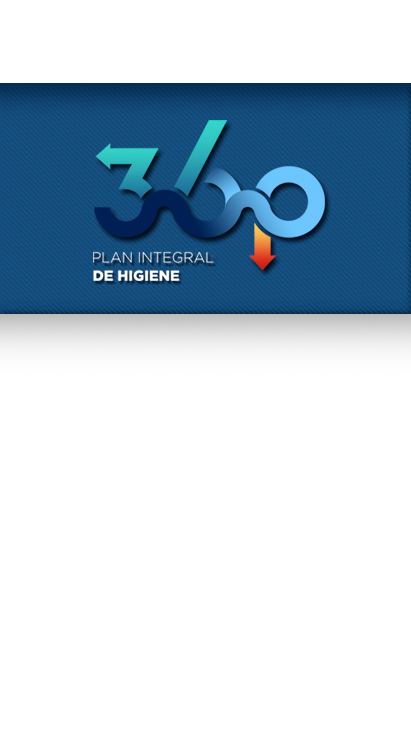
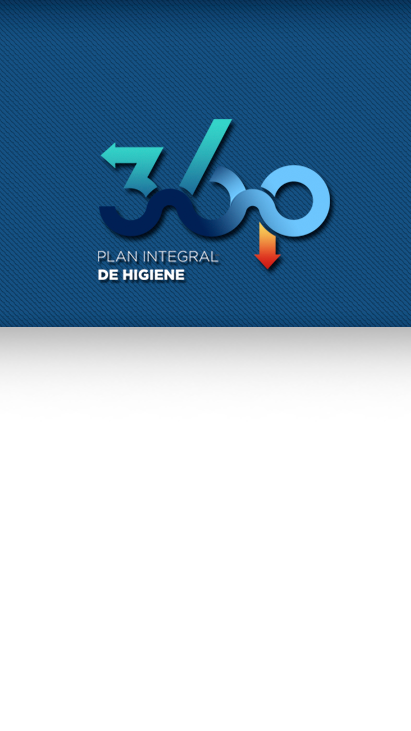
Diseño-Solucion Imagenes en distintos dispositivos

Changed region(s): [[0.0, 0.0, 1.0, 0.5116]]

diff --git a/src/app/app.scss b/src/app/app.scss
@@ -57,6 +57,33 @@ ion-footer{
     height:100%;            
     }
 
+/* 2 columnas para tablets */
+@media (min-width: 700px) {
+    #welcome  {
+        background-image: url('../../assets/images/fondoRegistrarseTablet.png');
+        background-repeat:no-repeat;
+        -webkit-background-size: cover;
+        -moz-background-size: cover;
+        -o-background-size: cover;
+        background-position: center center;
+        background-attachment: fixed;         
+    }
+}
+
+/* 4 columnas para grandes dispositivos*/
+@media (min-width: 960px) {
+    #welcome  {
+        background-image: url('../../assets/images/fondoRegistrarseMonitor.png');
+        background-repeat:no-repeat;
+        -webkit-background-size: cover;
+        -moz-background-size: cover;
+        -o-background-size: cover;
+        background-position: center center;
+        background-attachment: fixed;           
+    }
+}
+
+
 #welcome-bis {
     background-image: url('../../assets/images/fondoRegistrarse.png');
     background-repeat:no-repeat;
@@ -67,6 +94,32 @@ ion-footer{
     background-attachment: fixed;
     width:100%; 
     height:100%;
+}
+
+/* 2 columnas para tablets */
+@media (min-width: 700px) {
+    #welcome-bis  {
+        background-image: url('../../assets/images/fondoRegistrarseTablet.png');
+        background-repeat:no-repeat;
+        -webkit-background-size: cover;
+        -moz-background-size: cover;
+        -o-background-size: cover;
+        background-position: center center;
+        background-attachment: fixed;         
+    }
+}
+
+/* 4 columnas para grandes dispositivos*/
+@media (min-width: 960px) {
+    #welcome-bis  {
+        background-image: url('../../assets/images/fondoRegistrarseMonitor.png');
+        background-repeat:no-repeat;
+        -webkit-background-size: cover;
+        -moz-background-size: cover;
+        -o-background-size: cover;
+        background-position: center center;
+        background-attachment: fixed;           
+    }
 }
 
 #registrarText {

diff --git a/src/pages/plan-integral-higiene/plan-integral-higiene.scss b/src/pages/plan-integral-higiene/plan-integral-higiene.scss
@@ -2,7 +2,7 @@ page-plan-integral-higiene {
 
 
 	#fondo {			
-		background-image: url('../../assets/images/fondoPlanIntegral2.png');
+		background-image: url('../../assets/images/fondoPlanIntegral.png');
 		background-repeat:no-repeat;
 		background-size: cover;
 		-webkit-background-size: cover;
@@ -14,9 +14,60 @@ page-plan-integral-higiene {
 		height:100%;			
 	}
 
-	#contenido {
-		margin-top: 27rem;
+	/* 2 columnas para tablets */
+@media (min-width: 700px) {
+	#fondo  {
+		background-image: url('../../assets/images/fondoPlanIntegralTablet.png');
+		background-repeat:no-repeat;
+		-webkit-background-size: cover;
+		-moz-background-size: cover;
+		-o-background-size: cover;
+		background-position: center center;
+		background-attachment: fixed;		
 	}
+}
+
+/* 4 columnas para grandes dispositivos*/
+@media (min-width: 1050px) {
+	#fondo  {
+		background-image: url('../../assets/images/fondoPlanIntegralMonitor.png');
+		background-repeat:no-repeat;
+		-webkit-background-size: cover;
+		-moz-background-size: cover;
+		-o-background-size: cover;
+		background-position: center center;
+		background-attachment: fixed;	
+	}
+}
+
+
+#contenido {
+	margin-top: 28rem;
+}	
+
+@media (min-height: 730px) {
+	#contenido {
+		margin-top: 33rem;
+	}	
+}
+
+@media (min-height: 800px) {
+	#contenido {
+		margin-top: 36rem;
+	}	
+}
+
+@media (min-height: 1020px) {
+	#contenido {
+		margin-top: 39rem;
+	}	
+}
+
+@media (min-height: 1300px) {
+	#contenido {
+		margin-top: 55rem;
+	}	
+}
 
 
 }

diff --git a/src/pages/home/home.scss b/src/pages/home/home.scss
@@ -7,10 +7,37 @@ page-home {
 		-moz-background-size: cover;
 		-o-background-size: cover;
 		background-position: center center;
-		background-attachment: fixed;
-		width:100%;	
-		height:100%;			
+		background-attachment: fixed;		
+		max-width: 100%;
+		display: inline-block;			
 	}
+
+
+/* 2 columnas para tablets */
+@media (min-width: 700px) {
+	#fondo  {
+		background-image: url('../../assets/images/FondoTablet.png');
+		background-repeat:no-repeat;
+		-webkit-background-size: cover;
+		-moz-background-size: cover;
+		-o-background-size: cover;
+		background-position: center center;
+		background-attachment: fixed;		
+	}
+}
+
+/* 4 columnas para grandes dispositivos*/
+@media (min-width: 960px) {
+	#fondo  {
+		background-image: url('../../assets/images/FondoMonitor.png');
+		background-repeat:no-repeat;
+		-webkit-background-size: cover;
+		-moz-background-size: cover;
+		-o-background-size: cover;
+		background-position: center center;
+		background-attachment: fixed;	
+	}
+}
 
 	#contenedor {
     width:100%;   

diff --git a/src/pages/signup/signup.scss b/src/pages/signup/signup.scss
@@ -13,6 +13,32 @@ page-signup {
 		margin-top: 8%;		
 	}
 
+	/* 2 columnas para tablets */
+@media (min-width: 700px) {
+	#fondo  {
+		background-image: url('../../assets/images/FondoTablet.png');
+		background-repeat:no-repeat;
+		-webkit-background-size: cover;
+		-moz-background-size: cover;
+		-o-background-size: cover;
+		background-position: center center;
+		background-attachment: fixed;		
+	}
+}
+
+/* 4 columnas para grandes dispositivos*/
+@media (min-width: 960px) {
+	#fondo  {
+		background-image: url('../../assets/images/FondoMonitor.png');
+		background-repeat:no-repeat;
+		-webkit-background-size: cover;
+		-moz-background-size: cover;
+		-o-background-size: cover;
+		background-position: center center;
+		background-attachment: fixed;	
+	}
+}
+
 	#contenedorBtn {
 		width:100%;
 		height:40%;

diff --git a/src/pages/login/login.scss b/src/pages/login/login.scss
@@ -13,6 +13,32 @@ page-login {
 		margin-top: 12%;		
 	}
 
+	/* 2 columnas para tablets */
+@media (min-width: 700px) {
+	#fondo  {
+		background-image: url('../../assets/images/FondoTablet.png');
+		background-repeat:no-repeat;
+		-webkit-background-size: cover;
+		-moz-background-size: cover;
+		-o-background-size: cover;
+		background-position: center center;
+		background-attachment: fixed;		
+	}
+}
+
+/* 4 columnas para grandes dispositivos*/
+@media (min-width: 960px) {
+	#fondo  {
+		background-image: url('../../assets/images/FondoMonitor.png');
+		background-repeat:no-repeat;
+		-webkit-background-size: cover;
+		-moz-background-size: cover;
+		-o-background-size: cover;
+		background-position: center center;
+		background-attachment: fixed;	
+	}
+}
+
 
 	#contenedorBtn {
 		width:100%;
